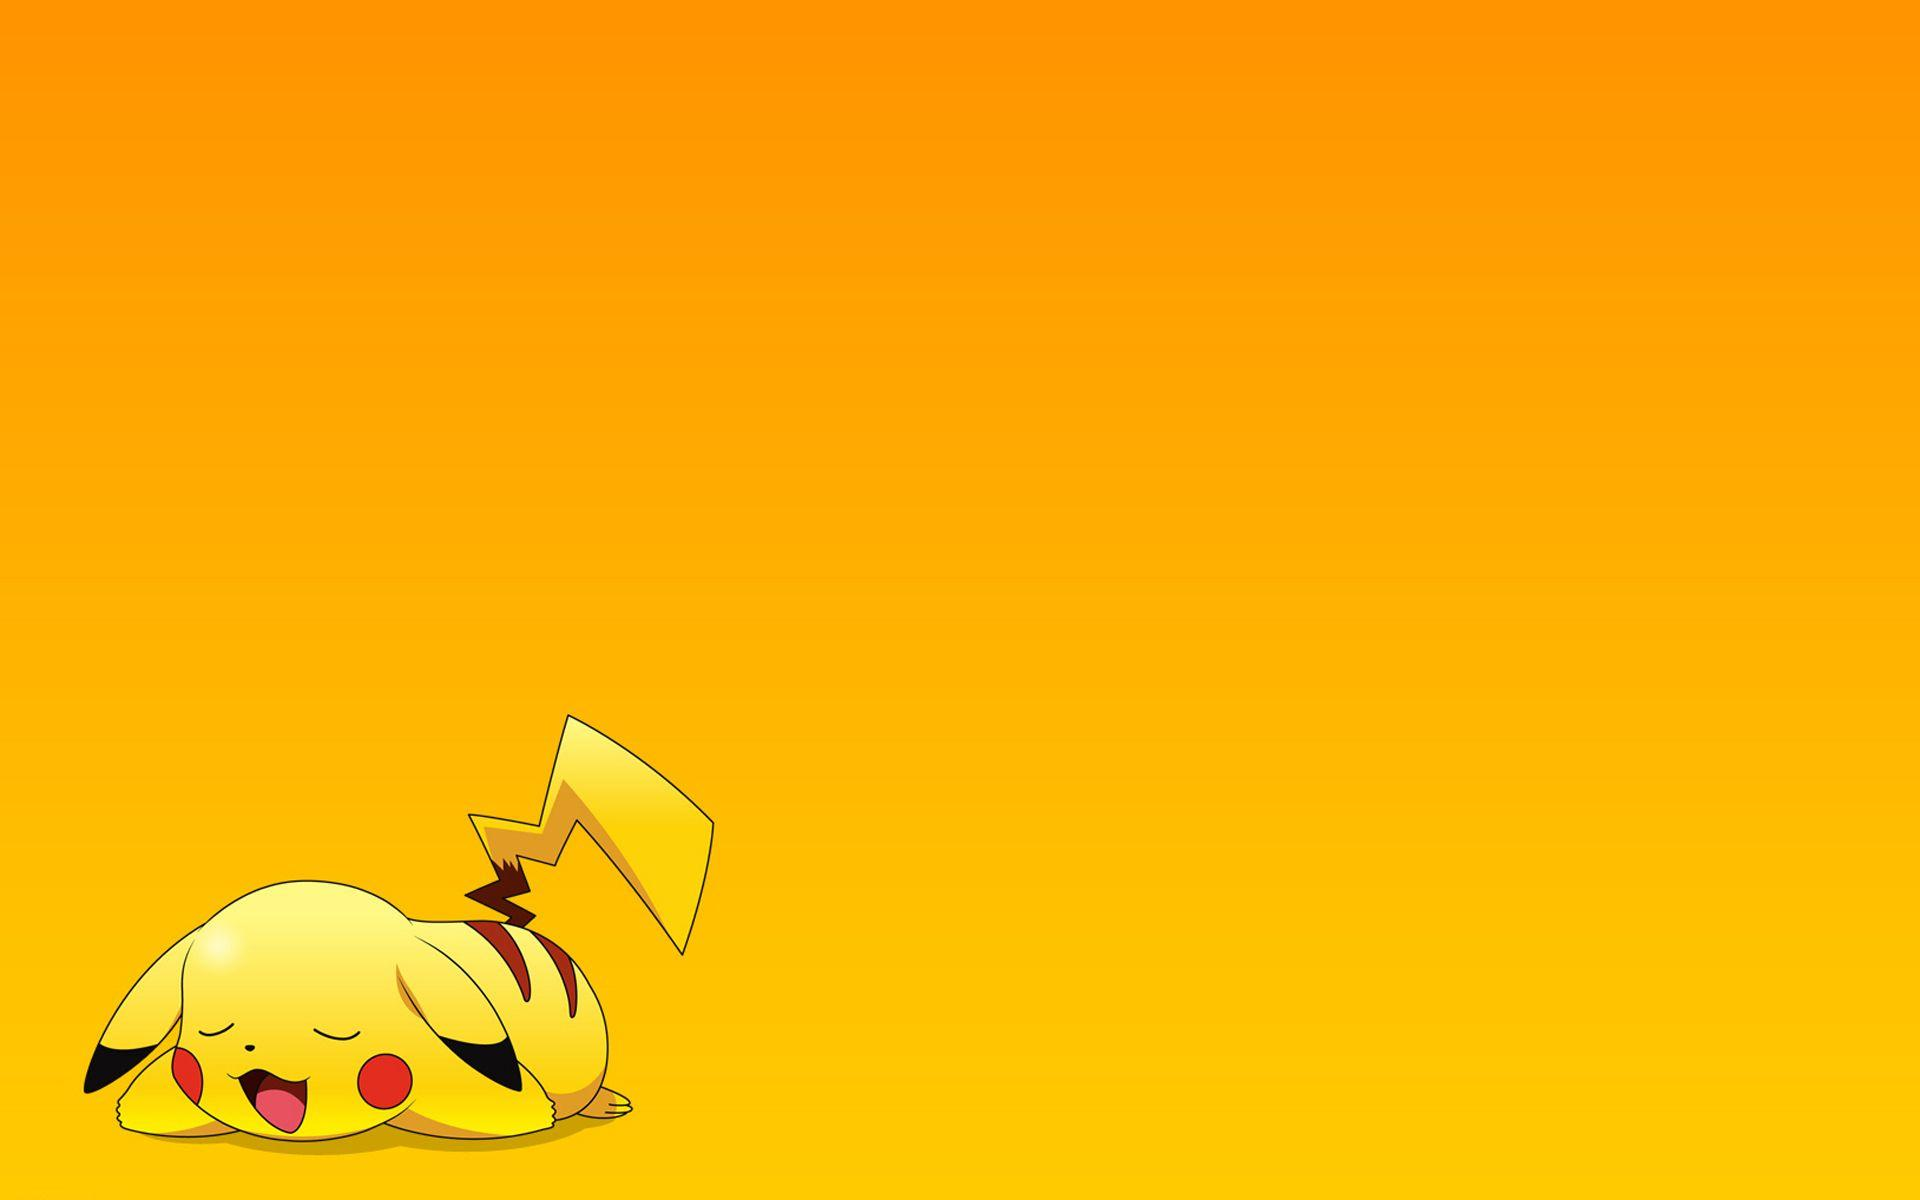
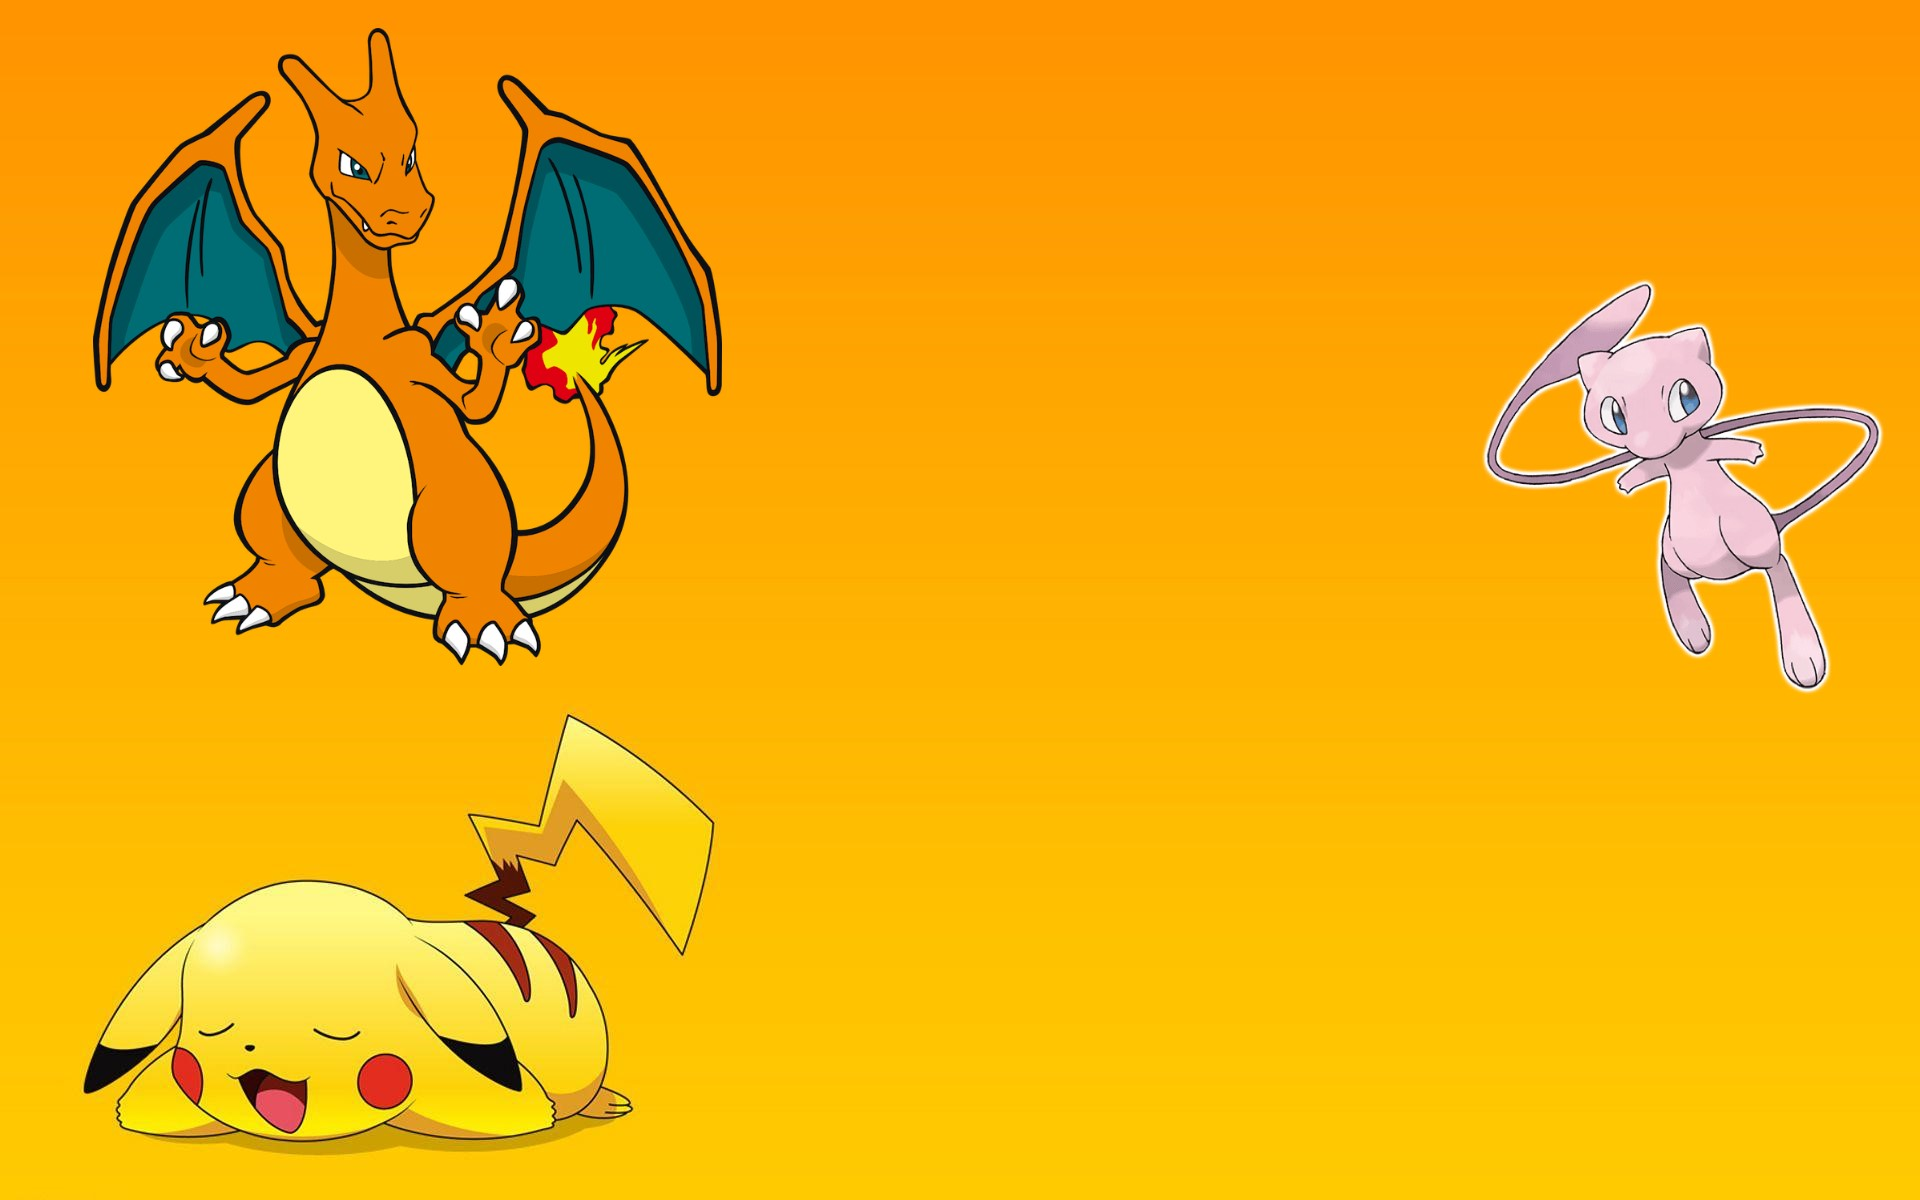
Add style component to Navbar.js,PokemonList.js,PokemonDetail.js

Changed region(s): [[0.0312, 0.0308, 0.375, 0.555], [0.75, 0.2158, 1.0, 0.5858]]

diff --git a/reactomon/src/index.css b/reactomon/src/index.css
@@ -1,3 +1,5 @@
+@import url('http://fonts.cdnfonts.com/css/pokemon-solid');
+
 body {
   margin: 0;
   font-family: -apple-system, BlinkMacSystemFont, "Segoe UI", "Roboto", "Oxygen",
@@ -5,9 +7,10 @@ body {
     sans-serif;
   -webkit-font-smoothing: antialiased;
   -moz-osx-font-smoothing: grayscale;
-  background-image: url("./img/background.jpg");
+  background-image: url("./img/background2.jpg");
   background-position-y: -14rem;
   background-position-x: -5rem;
+  font-family: 'Pokemon Solid', sans-serif;
 }
 
 code {
@@ -16,11 +19,12 @@ code {
 }
 
 nav {
-  padding-top: 15rem;
-  margin-left: 50rem;
+  padding-top: 9rem;
+  padding-bottom: 6rem;
+  margin-left: 49rem;
   display: block;
   flex-wrap: wrap;
-  max-width: 15rem;
+  max-width: 19rem;
 }
 
 .pokemonNav {
@@ -36,17 +40,17 @@ nav {
   flex-wrap: wrap;
   width: auto;
   height: auto;
-  padding-left: 38rem;
+  padding-left: 42rem;
   padding-right: 39rem;
 }
 
 .pokemonName {
-  margin-top: 3rem;
+  margin-top: 2rem;
   margin-right: 1.5rem;
   min-height: 7rem;
   min-width: 7rem;
   border-radius: 3px;
-  background: rgb(223, 238, 7);
+  background: rgb(213, 228, 0);
   box-shadow: 0 5px 2px -2px rgba(0, 0, 0, 0.2), 0 2px 2px 0 rgba(0, 0, 0, 0.14),
     0 1px 5px 0 rgba(0, 0, 0, 0.12);
   font-size: small;
@@ -59,7 +63,7 @@ nav {
   display: flex;
   flex-wrap: wrap;
   width: auto;
-  margin-left: 45rem;
+  margin-left: 38rem;
   padding-right: 20rem;
   max-width: 0rem;
   max-height: 17rem;
@@ -69,16 +73,15 @@ nav {
 .typeName {
   margin-top: 2rem;
   margin-right: 1rem;
-  max-height: 1rem;
-  min-width: 4rem;
+  max-height: 2rem;
+  min-width: 5rem;
   flex-wrap: wrap;
   border-radius: 3px;
-  background: rgb(223, 238, 7);
-  box-shadow: 0 5px 2px -2px rgba(0, 0, 0, 0.2), 0 2px 2px 0 rgba(0, 0, 0, 0.14),
-    0 1px 5px 0 rgba(0, 0, 0, 0.12);
-  font-size: small;
+  background: rgb(213, 228, 0);
+  box-shadow: 0 5px 2px -2px rgb(0 0 0 / 20%), 0 2px 2px 0 rgb(0 0 0 / 14%), 0 1px 5px 0 rgb(0 0 0 / 12%);
+  font-size: large;
   text-align: center;
-  padding-bottom: 0.5rem;
+  padding-bottom: 1.5rem;
 }
 
 .typeName h4 {
@@ -100,9 +103,24 @@ nav {
   min-width: 4rem;
   flex-wrap: wrap;
   border-radius: 3px;
-  background: rgb(223, 238, 7);
+  background: rgb(213, 228, 0);
   box-shadow: 0 5px 2px -2px rgb(0 0 0 / 20%), 0 2px 2px 0 rgb(0 0 0 / 14%), 0 1px 5px 0 rgb(0 0 0 / 12%);
   font-size: small;
   text-align: center;
   padding-bottom: 0.5rem;
+}
+
+img{
+  height: 120px;
+ width: 120px;
+}
+
+.navbar{
+  background-image: url("./img/Pokédex_logo.png");
+  background-repeat: no-repeat;
+  background-position-x: center;
+}
+a{
+  text-decoration: none;
+  margin-top: -2rem;
 }

diff --git a/reactomon/src/components/PokemonDetail.js b/reactomon/src/components/PokemonDetail.js
@@ -1,11 +1,9 @@
 import React, { useEffect, useState } from "react";
-import axios from "axios";
+import styled from "styled-components";
 
 const PokemonDetail = (props) => {
   const [details, setDetails] = useState([]);
   let id = props.match.params.id;
-
-  console.log(id);
 
   const url = `https://pokeapi.co/api/v2/pokemon/${id}`;
 
@@ -13,26 +11,45 @@ const PokemonDetail = (props) => {
     getDetails();
   }, []);
 
-  const getDetails = () => {
-    axios
-      .get(`${url}`)
-      .then((response) => {
-        const details = response.data.abilities;
-        setDetails(details);
-        console.log("Fetch complete");
-      })
-      .catch((error) => console.error(`Error: ${error}`));
-  };
+  const getDetails = async () => {
+        const res = await fetch(`${url}`)
+        const data = await res.json()
+        setDetails(currentList => [...currentList, data])
+      }
 
   return (
     <div className="details">
       {details.map((detail) => (
-        <div className="pokemonDetail">
-          <h4>{detail.ability.name}</h4>
-        </div>
+        
+        <PokeCard className="pokemonDetails">
+          <PokePic src={detail.sprites.other.dream_world.front_default}></PokePic>
+          <div className="height"><Text>Height: {detail.height/10} m</Text></div>
+          <div className="weight"><Text>Weight: {detail.weight/10} kg</Text></div>
+          <div className="species"><Text>Species: {detail.species.name}</Text></div>
+          </PokeCard>
       ))}
     </div>
   );
 };
+
+const PokeCard = styled.div`
+margin-top: 3rem;
+    margin-left: 39.5rem;
+    min-height: 22rem;
+    min-width: 17rem;
+    border-radius: 3px;
+    background: rgb(213,228,0);
+    box-shadow: 0 5px 2px -2px rgb(0 0 0 / 20%), 0 2px 2px 0 rgb(0 0 0 / 14%), 0 1px 5px 0 rgb(0 0 0 / 12%);
+    font-size: small;
+    text-align: center;
+    vertical-align: bottom;`;
+
+const PokePic = styled.img`
+height: 173px;
+    width: 228px;
+    padding-left: 1rem;`;
+
+const Text = styled.h1`
+font-size: x-large;`;
 
 export default PokemonDetail;

diff --git a/reactomon/src/components/PokemonList.js b/reactomon/src/components/PokemonList.js
@@ -1,11 +1,11 @@
 import React, { useEffect, useState } from "react";
-import axios from "axios";
+import styled from "styled-components";
 
 import { Link } from "react-router-dom";
 
 function PokemonList() {
   const [pokemons, setPokemons] = useState([]);
-  const [loadMore, setLoadMore] = useState('https://pokeapi.co/api/v2/pokemon?limit=10');
+  const [loadMore, setLoadMore] = useState('https://pokeapi.co/api/v2/pokemon?limit=16');
   
 
 
@@ -20,7 +20,7 @@ function PokemonList() {
         const res = await fetch(`https://pokeapi.co/api/v2/pokemon/${pokemon.name}`)
         const data = await res.json()
         setPokemons(currentList => [...currentList, data])
-        pokemons.sort((a, b)=> a.id - a.id)
+        pokemons.sort((a, b)=> a.id - b.id)
       })
       
     }
@@ -34,14 +34,22 @@ function PokemonList() {
   return (
     <div className="names">
       {pokemons.map((pokemon, index) => (
+        <Link to={`/pokemon/${index + 1}`}>
         <div className="pokemonName" key={`${index + 1}`}>
-          <Link to={`/pokemon/${index + 1}`}>{pokemon.name}</Link>
           <img src={pokemon.sprites.other.dream_world.front_default}></img>
+          <br></br>
+          <Paragh><p>{pokemon.name}</p></Paragh>
         </div>
+        </Link>
       ))}
     </div>
+    
   );
 }
 
+const Paragh = styled.p`
+font-size: 1rem;
+margin-top: -2rem;
+`;
 
 export default PokemonList;

diff --git a/reactomon/src/components/Navbar.js b/reactomon/src/components/Navbar.js
@@ -1,20 +1,37 @@
 import React from "react";
-
 import { Link } from "react-router-dom";
+import styled from 'styled-components'
 
 function Navbar() {
   return (
     <div className="navbar">
       <nav>
-        <div className="pokemonNav">
-          <Link to="/pokemons">Pokemons</Link>
-        </div>
-        <div className="typeNav">
-          <Link to="/types">Types</Link>
-        </div>
+        <NavDiv className="pokemonNav">
+          
+          <NavLink to="/pokemons">Pokemons</NavLink>
+          
+        </NavDiv>
+        <NavDiv className="typeNav">
+          <NavLink to="/types">Types</NavLink>
+        </NavDiv>
       </nav>
     </div>
   );
 }
+
+const NavLink = styled(Link)`
+font-size: 1.8em;
+`;
+
+const NavDiv = styled.div`
+{
+  border: 3px solid #b71616;
+  border-radius: 5px;
+  max-height: 5rem;
+  min-width: 9rem;
+  text-align: center;
+  padding-top: 0rem;
+  &:hover {background-color: #b71616;}
+}`;
 
 export default Navbar;
